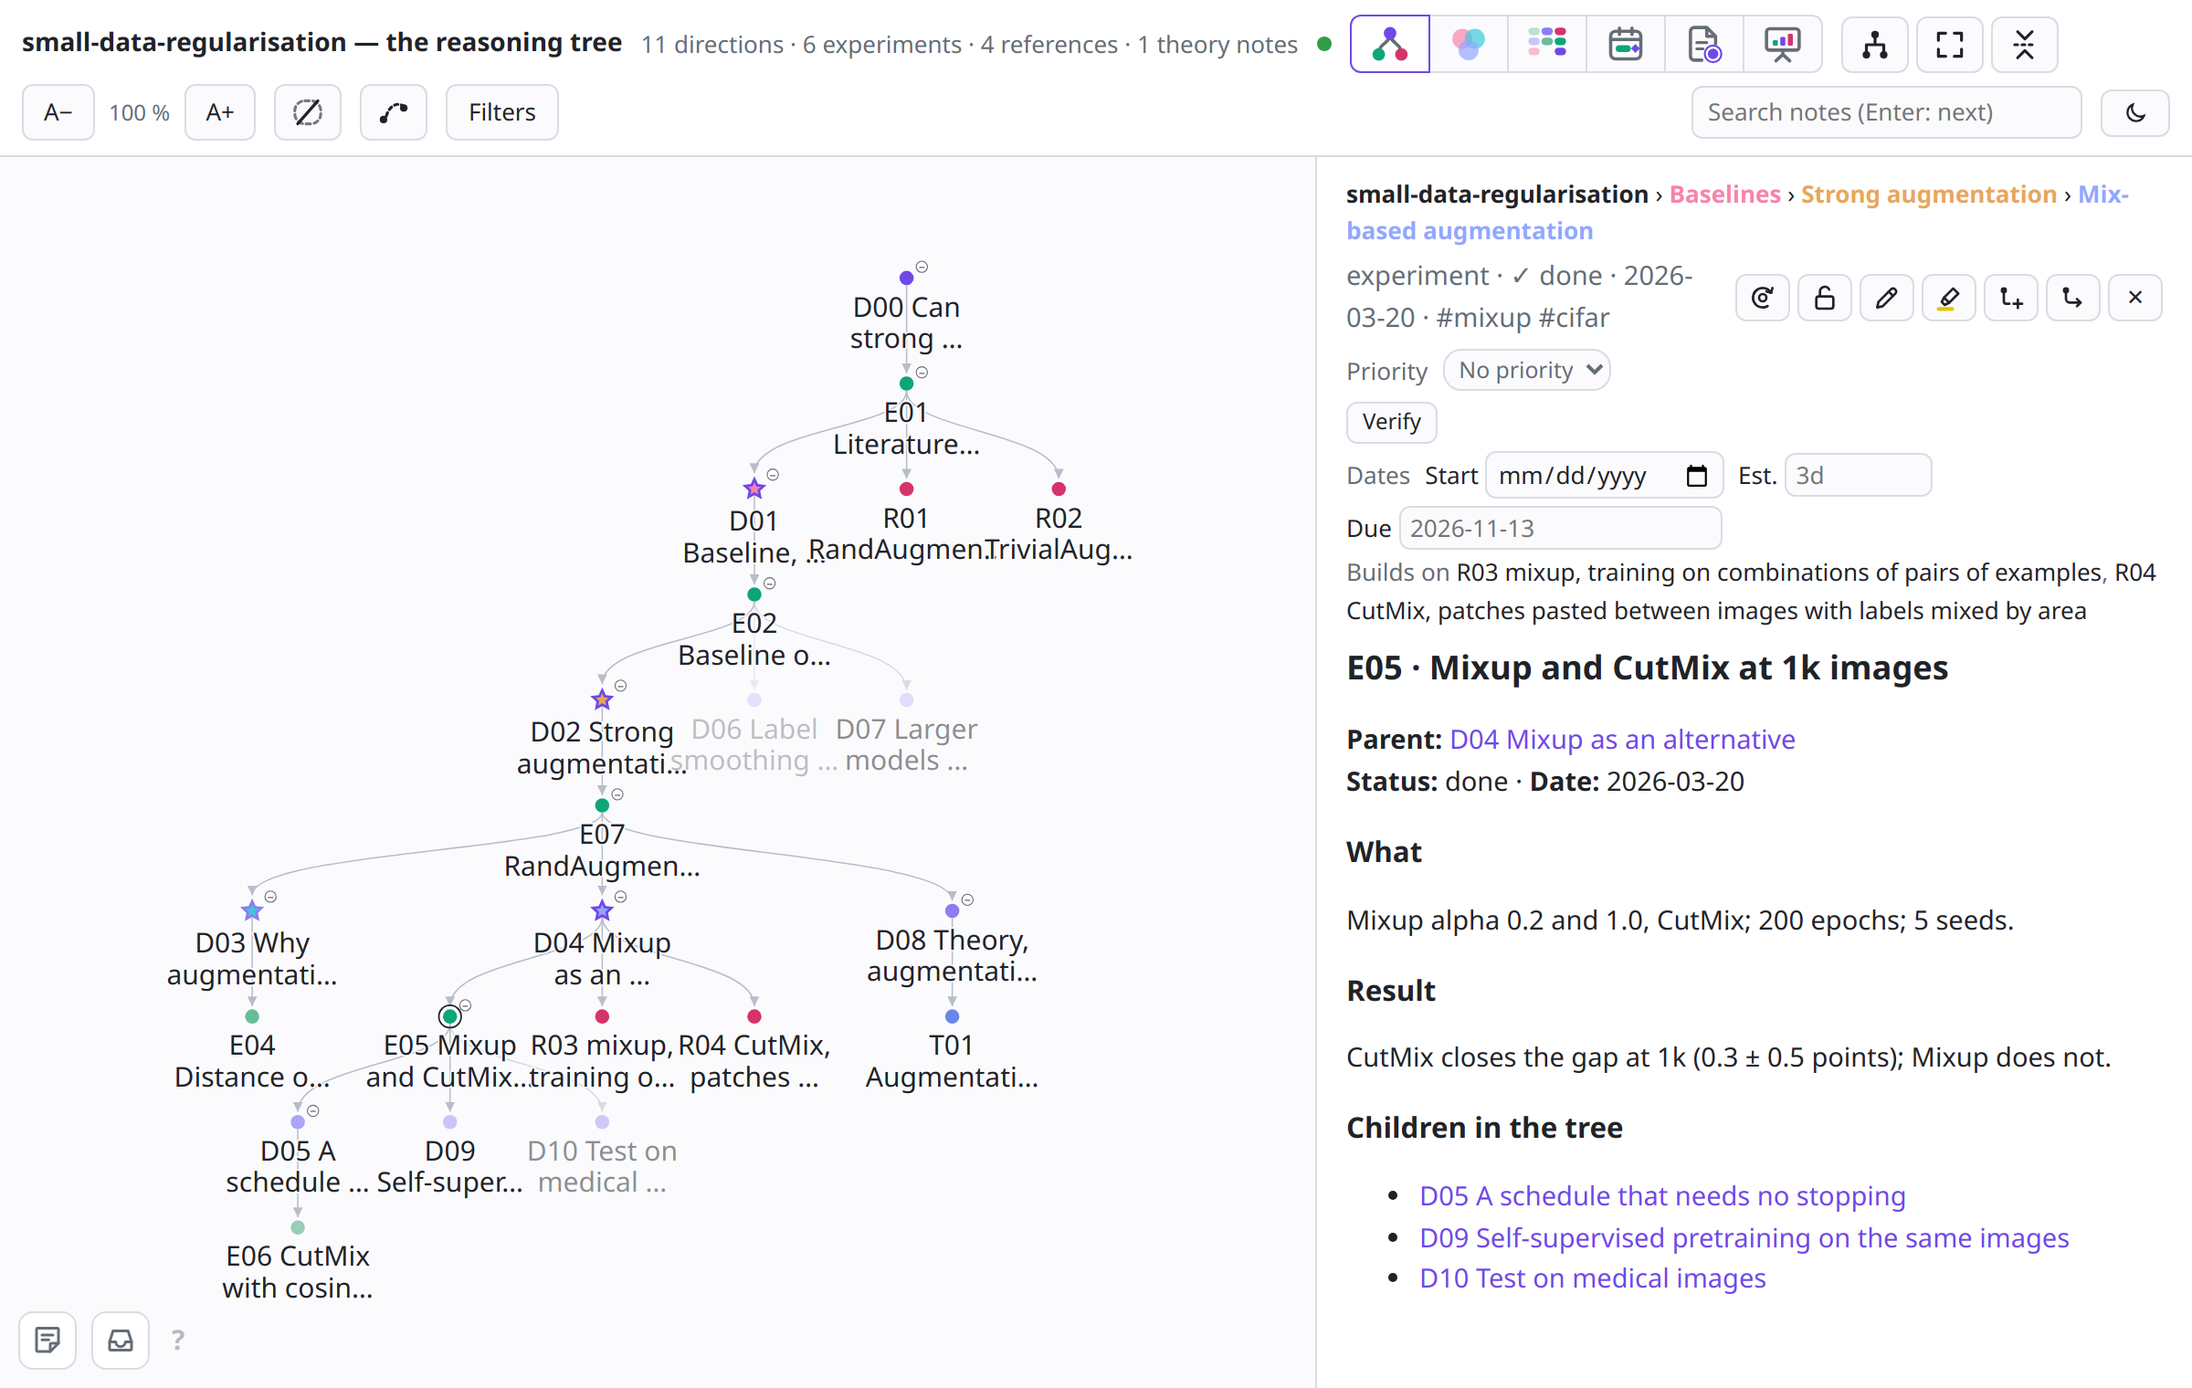
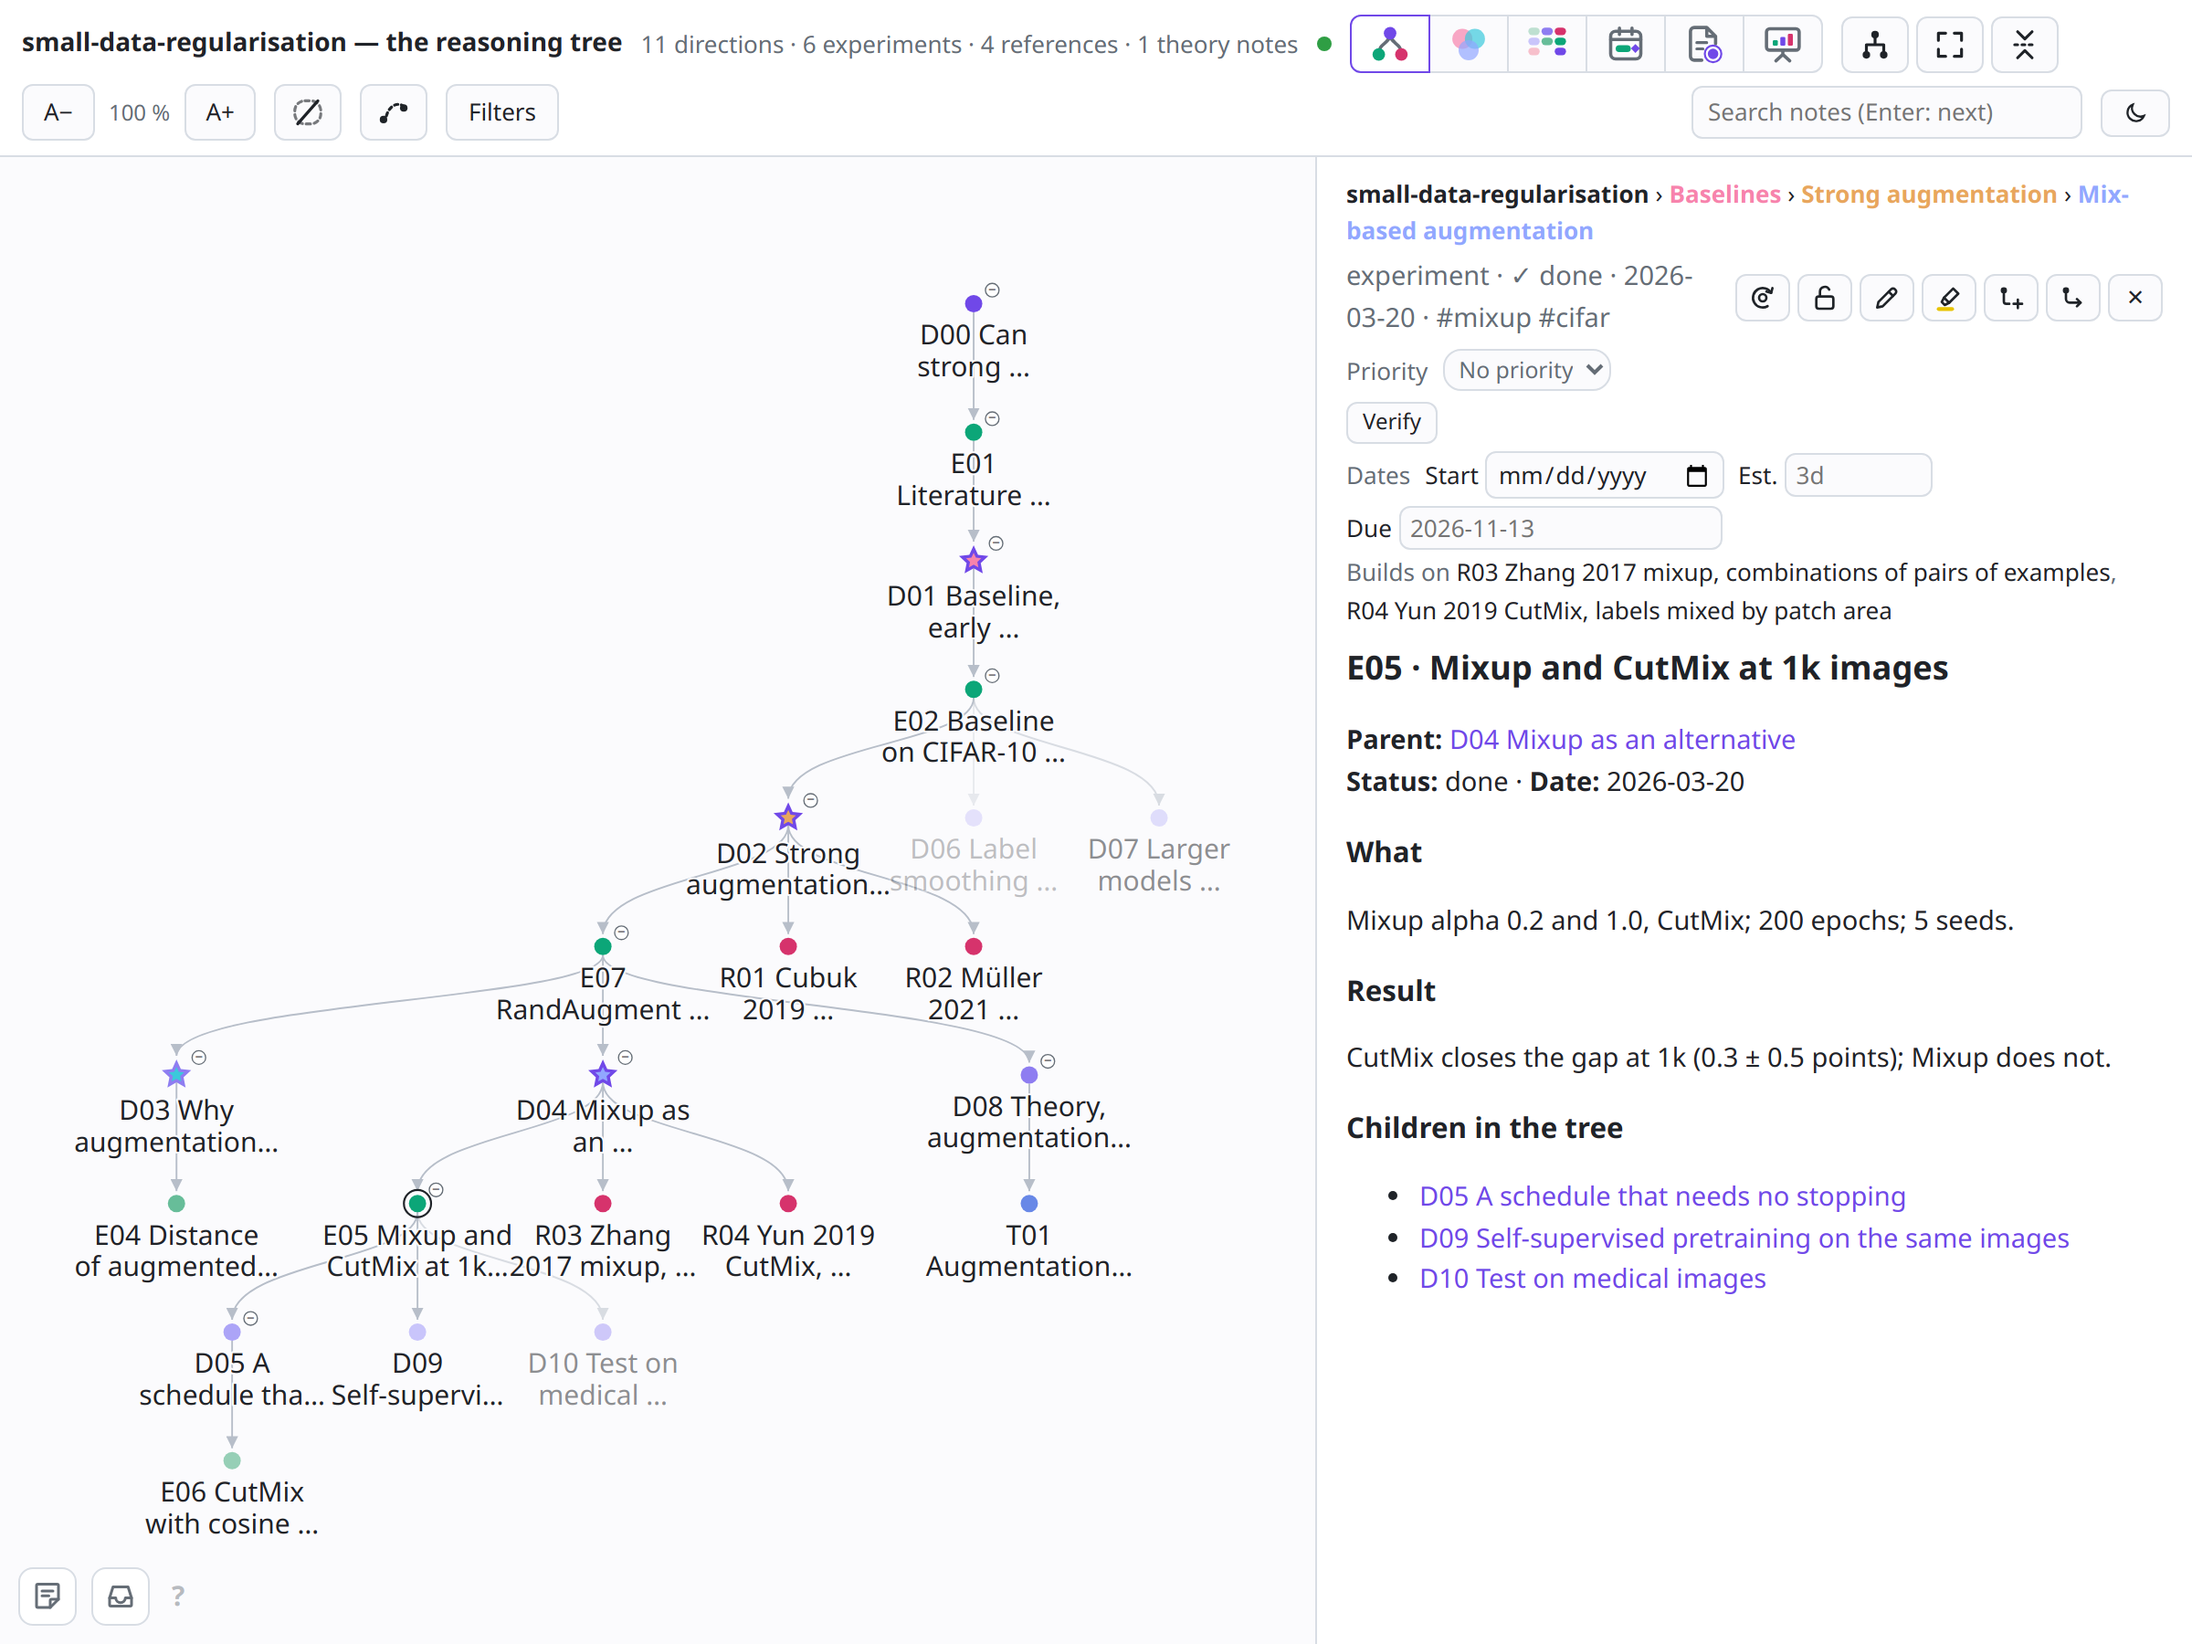
Pictures retaken at 1200 × 900 from the demo with its references renamed

diff --git a/scripts/shots.py b/scripts/shots.py
@@ -23,7 +23,7 @@ from chrome import Chrome
 
 ROOT = Path(__file__).resolve().parent.parent
 OUT = ROOT / "docs" / "images"
-WIDTH, HEIGHT = 1200, 760
+WIDTH, HEIGHT = 1200, 900
 
 # clicks as a person makes them
 CLICK_NODE = "(id => [...document.querySelectorAll('#canvas g.node')].find(g => g.__data__.data.id === id).dispatchEvent(new MouseEvent('click', {bubbles: true})))"

diff --git a/README.md b/README.md
@@ -24,7 +24,7 @@ The pages are plain markdown under `docs/`, and `zensical.toml` holds the naviga
 - `docs/stylesheets/rft.css`: the colours of rft's own page, copied from the plugin's
   `web/app.css`. A change to the page's palette is made in both places.
 - `scripts/shots.py`: retakes every screenshot under `docs/images/` from the plugin's demo project
-  (`examples/demo`), in headless Chromium at 1200 × 760 in the light theme. Run it when the page's
+  (`examples/demo`), in headless Chromium at 1200 × 900 in the light theme. Run it when the page's
   look changes; a new picture is one more entry in its `SHOTS` list. Two runs give the same files.
 - `scripts/chrome.py`: headless Chromium, for the screenshots.
 - `scripts/check_built.py`: every picture and local link of the built site leads to a file. The
